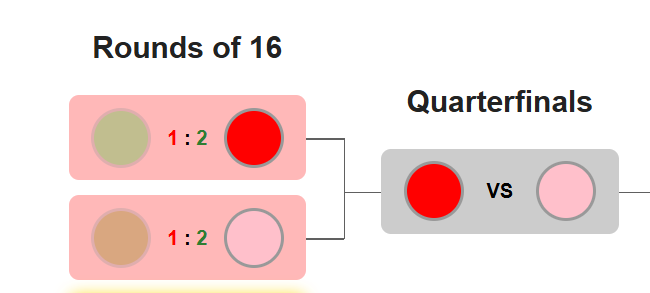
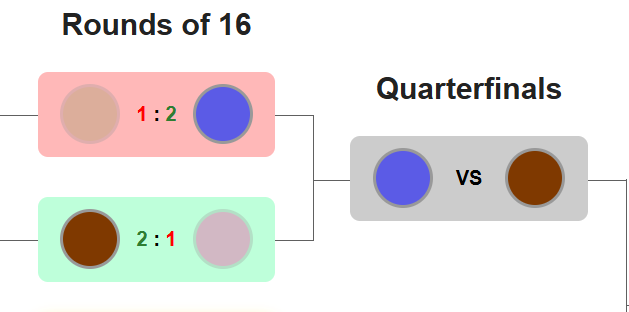
make pick'em challenge more winable and change SpecialModeInfoPage due to last Patch

diff --git a/src/pages/SpecialModeInfoPage/SpecialModeInfoPage.jsx b/src/pages/SpecialModeInfoPage/SpecialModeInfoPage.jsx
@@ -226,20 +226,24 @@ const SpecialModeInfoPage = () => {
                     <h3 style={{ marginTop: '12px' }} className={css.title}>Starting off</h3>
                     <div className={css.divider} />
                 </div>
-                <p className={css.info_text}>By starting off (clicking the "Start Game" button), you'll see Single Elimination bracket with <b>16</b> teams:</p>
+                <p className={css.info_text}>By starting off (clicking the "Start Game" button), you'll see Single Elimination bracket with <b>32</b> teams:</p>
                 <div className={css.image_container}>
-                    <img src={bracketImg} alt="Single Elimination bracket" className={css.image} />
+                    <img src={bracketImg} alt="Single Elimination bracket" className={css.image} style={{ width: '30vw', height: '37vh' }} />
                     <span style={{ fontStyle: 'italic', color: 'black' }} className={css.info_text}>(The teams' classification is always different)</span>
                 </div>
-                <p className={css.info_text}>There are in total <b>32</b> colors for teams, only <b>16</b> are randomly being taken. <br />
-                    But there are four exceptions: <br />
+                <p className={css.info_text}>There are in total <b>64</b> colors for teams, only <b>32</b> are randomly being taken. <br />
+                    But there are eight exceptions: <br />
                     <span style={{ color: COLORS.blue.color, fontWeight: '800' }}>Team Blue</span>, {' '}
                     <span style={{ color: COLORS.yellow.color, fontWeight: '800' }}>Team Yellow</span>, {' '}
-                    <span style={{ color: COLORS.lime.color, fontWeight: '800' }}>Team Lime</span> and {' '}
-                    <span style={{ color: COLORS.red.color, fontWeight: '800' }}>Team Red</span> <br />
+                    <span style={{ color: COLORS.lime.color, fontWeight: '800' }}>Team Lime</span>, {' '}
+                    <span style={{ color: COLORS.red.color, fontWeight: '800' }}>Team Red</span>, {' '}
+                    <span style={{ color: COLORS.green.color, fontWeight: '800' }}>Team Green</span>, {' '}
+                    <span style={{ color: COLORS.brown.color, fontWeight: '800' }}>Team Brown</span>, {' '}
+                    <span style={{ color: COLORS.beige.color, fontWeight: '800' }}>Team Beige</span>, and {' '}
+                    <span style={{ color: COLORS.orange.color, fontWeight: '800' }}>Team Orange</span> <br />
                     which are in every new tournament.
                 </p>
-                <p className={css.info_text}>That's why there are only <b>12</b> always random teams out of <b>28</b> (excluding four exceptional ones).</p>
+                <p className={css.info_text}>That's why there are only <b>24</b> always random teams out of <b>56</b> (excluding eight exceptional ones).</p>
                 <div style={{ marginTop: '24px' }} className={css.divider_container}>
                     <h3 style={{ marginTop: '12px' }} className={css.title}>Hau tu start a metch?</h3>
                     <div className={css.divider} />
@@ -394,7 +398,7 @@ const SpecialModeInfoPage = () => {
                 </div>
                 <p className={css.info_text}>The next match winner fills then second circle:</p>
                 <div className={css.image_container}>
-                    <img src={secondQuarterfinalistImg} alt="Second quarterfinalist" className={css.image} style={{ width: '35vw', height: '30vh' }} />
+                    <img src={secondQuarterfinalistImg} alt="Second quarterfinalist" className={css.image} style={{ width: '35vw', height: '35vh' }} />
                     <span style={{ fontStyle: 'italic', color: 'black' }} className={css.info_text}>(P. s. You still are only able to start the match when all Rounds of 16 are finished)</span>
                 </div>
                 <p className={css.info_text}>On the header of the modal, we can see the reminder of whether your chosen team lost or won. <br />
@@ -407,9 +411,9 @@ const SpecialModeInfoPage = () => {
                     if in Quarterfinals, you get <i>+5 Pick&apos;em points</i> per match, <br />
                     if in Semi-finals or in Third Place Decider, you get <i>+7 Pick&apos;em points</i> per match, <br />
                     and if in Grand Final, you get <i>+9 Pick&apos;em points</i>. <br />
-                    If your chosen team loses in whatever stage, you get as many points as many sets your chosen team won but still lost overall.
+                    If your chosen team loses in whatever stage, you get twice as many points as many sets your chosen team won but still lost overall.
                 </p>
-                <p className={css.info_text}>That's why also I get here <b>+1 Pick&apos;em point</b>, even though my chosen team lost overall:</p>
+                <p className={css.info_text}>That's why also I get here <b>+2 Pick&apos;em points</b>, even though my chosen team lost overall:</p>
                 <div className={css.image_container}>
                     <img src={finishedMatchModalImg} alt="Finished match modal" className={css.image} style={{ width: '30vw', height: '40vh' }} />
                 </div>

diff --git a/src/pages/SpecialModePage/SpecialModePage.jsx b/src/pages/SpecialModePage/SpecialModePage.jsx
@@ -628,7 +628,7 @@ export default function SpecialModePage() {
                     let pickedSets = 0;
                     if (pickedIsLeft) pickedSets = m.scoreLeft ?? 0;
                     if (pickedIsRight) pickedSets = m.scoreRight ?? 0;
-                    total += pickedSets;
+                    total += pickedSets * 2;
                 }
             });
         };
@@ -1755,7 +1755,7 @@ export default function SpecialModePage() {
         if (pickedWon) {
             wonPickemPoints = base;
         } else {
-            wonPickemPoints = pickedSets;
+            wonPickemPoints = pickedSets * 2;
         }
     }
 
